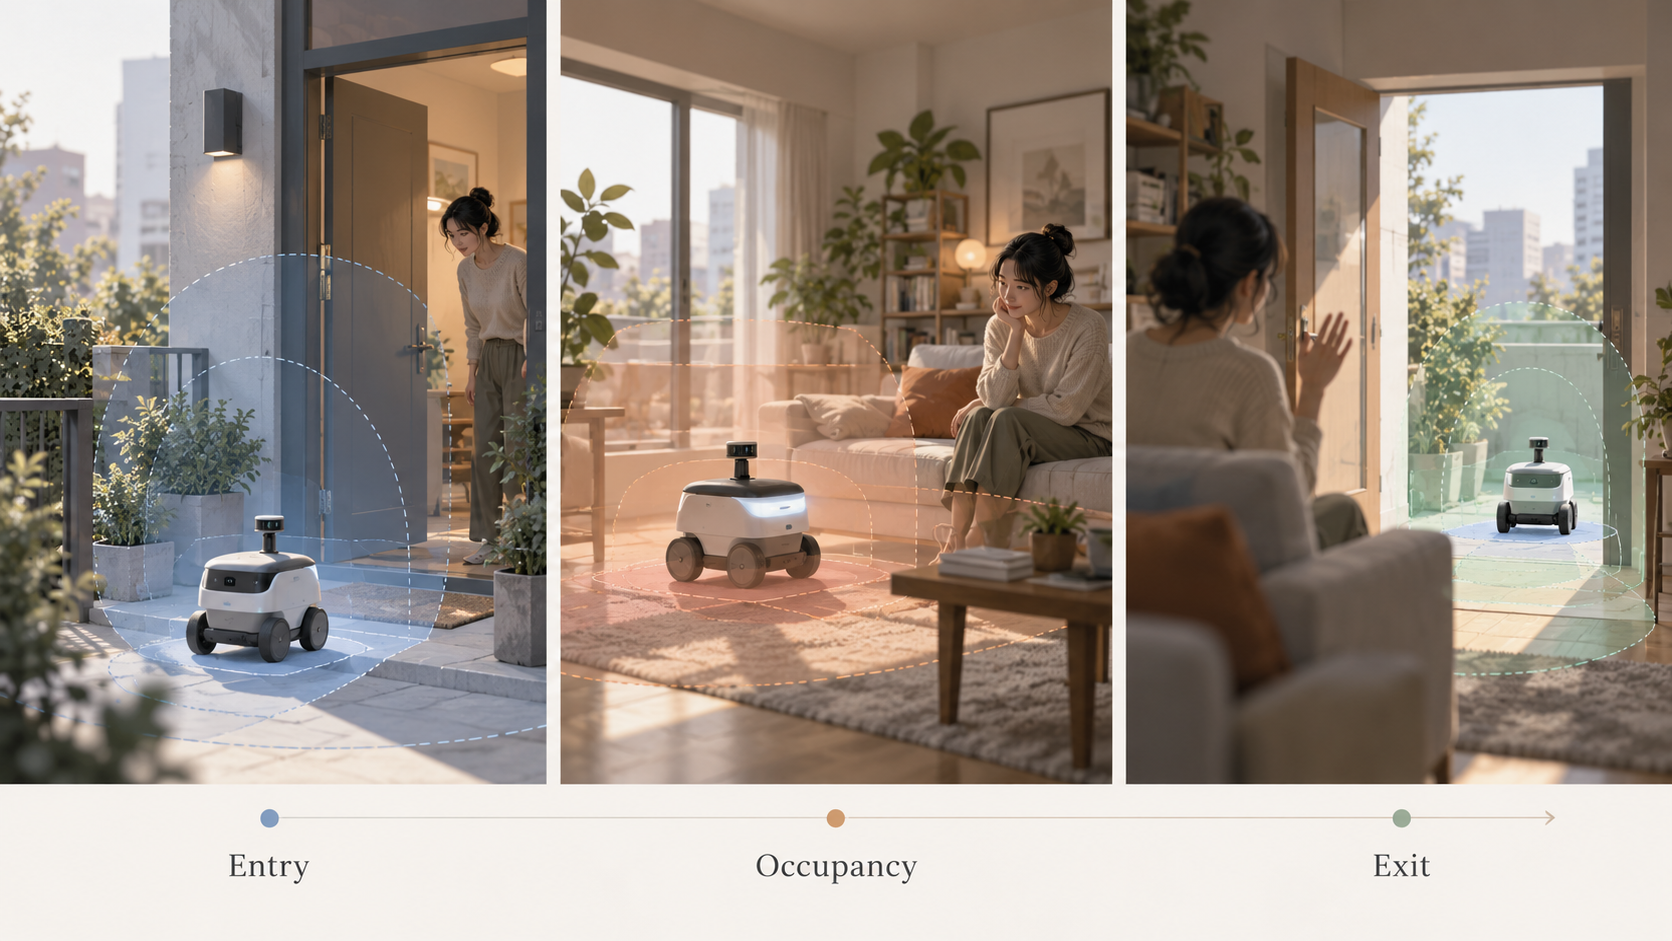
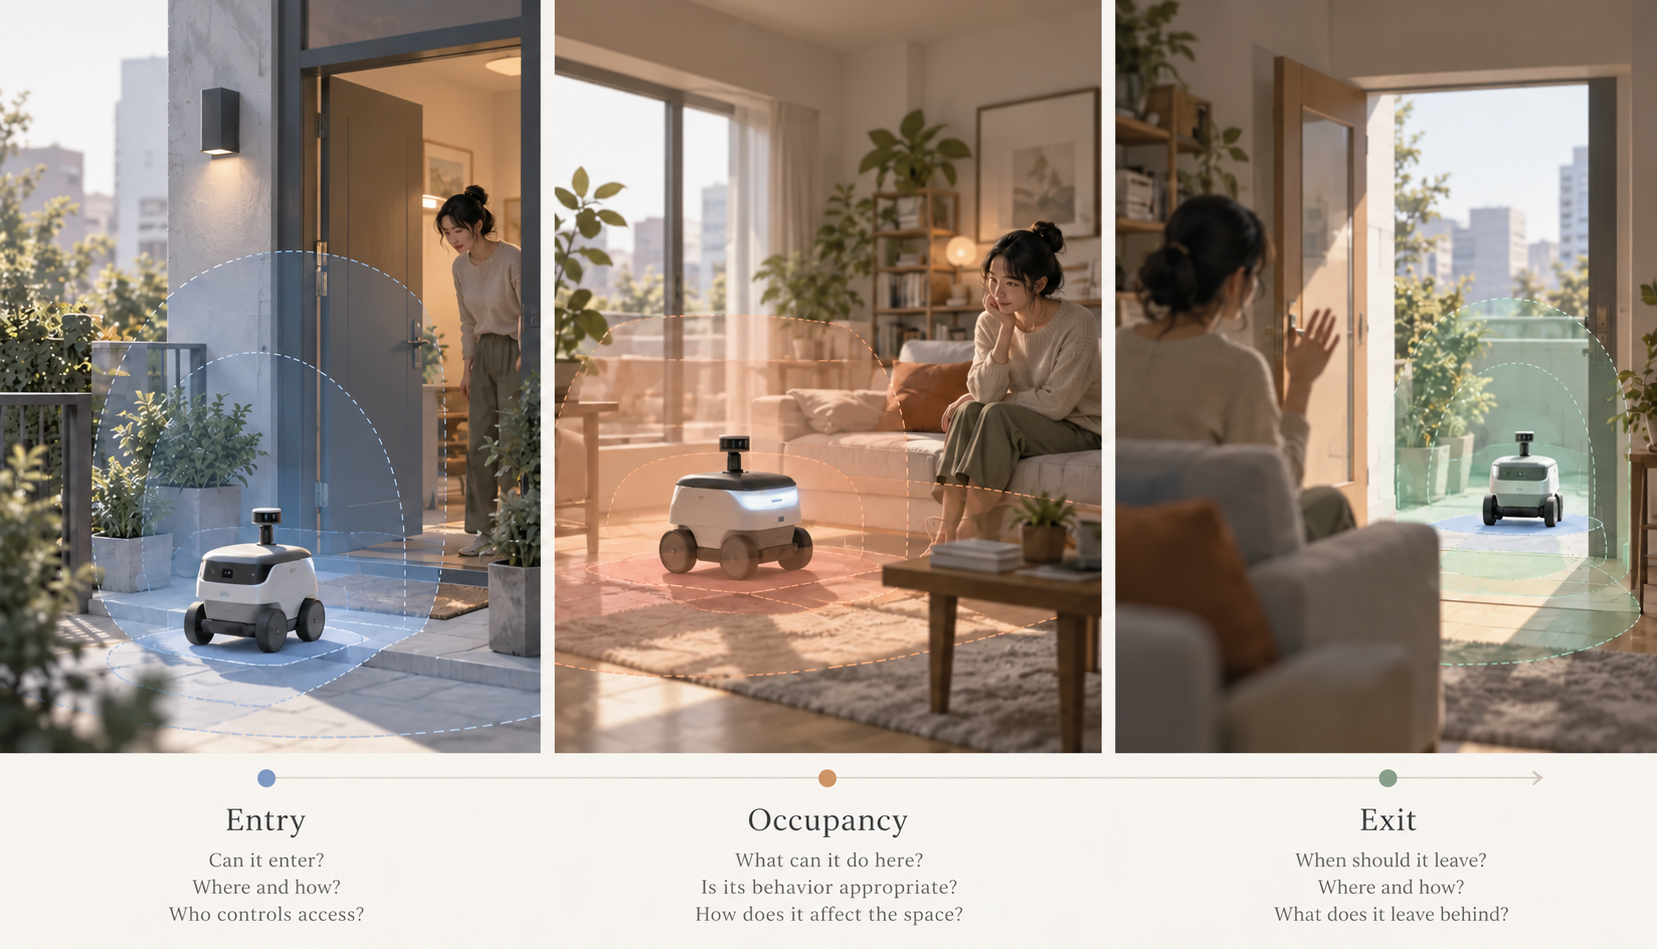
Update Projects

diff --git a/_projects/2_nox.md b/_projects/2_nox.md
@@ -24,23 +24,80 @@ I study how robots enter, occupy, and leave socially meaningful spaces, and what
 
 ## The idea
 
-Robots do not move through empty space. Homes, workplaces, streets, shops, and even the spaces surrounding them are shaped by expectations about **who can enter, what they can do there, and under what conditions**.
+Spaces are not socially neutral.
 
-Human–Robot Interaction has traditionally approached the social use of space through **proxemics**—the distances people maintain around robots. Territoriality complements this perspective by shifting the focus from the distance *between* agents to the spaces people **claim, control, use, and defend**.
+A bedroom, a workplace, a classroom, a garden, or even a temporary gathering each comes with expectations about how that space should be used and experienced. We develop a sense of who belongs there, who may enter, what kinds of actions are appropriate, how long someone may stay, and what qualities of the space should be preserved.
 
-My research asks how these territorial dynamics extend to robots.
+These expectations are not necessarily explicit. Much like proxemic behavior, we often navigate them intuitively as part of everyday life.
 
-## NOX: ENtry, Occupancy, EXit
+What happens when robots begin to enter these spaces?
 
-To make territoriality usable for HRI research and design, we developed **NOX (ENtry, Occupancy, EXit)**, a stage-based model of human–robot territorial dynamics {% cite bretin_nox_2026 %}.
+A robot may be physically capable of crossing a doorway, moving through a room, manipulating an object, or leaving whenever it chooses. But technical possibility does not automatically make these behaviors socially appropriate.
 
-NOX describes territorial interaction through three stages:
+This is where I became interested in **Human–Robot Territoriality**: how people's relationships with spaces shape what they expect from robots entering, occupying, and leaving them.
 
-- **Entry** — how a robot gains access to a space;
-- **Occupancy** — what it does and how its presence changes the space;
-- **Exit** — how and under what conditions it leaves.
+Rather than treating space as an empty environment through which a robot simply navigates, this perspective treats it as a socially meaningful setting—one already associated with people, activities, norms, expectations, and particular ways of being used.
 
-In a vignette study with 290 participants, we found that mismatches between people's expectations and robot behavior were associated with more negative emotions, stronger defensive intentions, and lower perceived appropriateness {% cite bretin_nox_2026 %}.
+## A framework for thinking about territories
+
+Before asking how a robot should behave in a territory, we need a way to describe what makes that space meaningful to the people connected to it.
+
+Our framework {% cite bretin_nox_2026 %} brings together several concepts from territoriality research and adapts them to Human–Robot Interaction:
+
+| Concept | A useful question | What it captures |
+| --- | --- | --- |
+| **Stakeholder** | *Who is meaningfully affected by what happens here?* | An agent with a meaningful connection to the territory—not necessarily the robot's user, or even someone physically present at the time. |
+| **Territorial connection** | *Why does this space matter to them?* | Practical, emotional, social, or legal ties to a space, such as living, working, owning, identifying with, or relying on it. |
+| **Territorial model** | *How do they expect this space to work?* | Expectations about who may access it, what may happen there, how it should be used, and what qualities it should maintain. |
+| **Territorial status** | *How can they actually experience and act within the space?* | Their current position in the territorial dynamic, including authority, freedom of access and action, self-expression, and the experienced qualities of the environment. |
+| **Territorial congruence** | *Do expectations and experience align?* | The degree to which what happens in the space corresponds to what stakeholders expect. |
+| **Territorial behavior** | *How are these relationships expressed?* | Ways of expressing, negotiating, maintaining, or responding to territorial relationships—from personalization and rule-setting to reactions when expectations are not met. |
+
+Together, these concepts describe the territorial setting in which an interaction takes place.
+
+**NOX adds the temporal dimension:** what happens when a robot approaches a territory, enters it, acts or remains within it, and eventually leaves?
+
+## NOX: Entry, Occupancy, Exit
+
+To make these dynamics actionable for HRI research and design, we developed **NOX (ENtry, Occupancy, EXit)**, a stage-based model of how robots engage with human territories over time {% cite bretin_nox_2026 %}.
+
+The model follows three broad phases:
+
+- **Entry** — how a robot approaches and gains access to a territory;
+- **Occupancy** — what it does, where it moves, and how its presence affects the space;
+- **Exit** — when and how it leaves, and what remains after it has gone.
+
+Across these phases, NOX identifies places where robot behavior and stakeholder expectations can diverge. We call these **friction points**.
+
+Importantly, NOX does not prescribe one universally correct behavior—for example, that a robot must always ask for permission before entering. What matters is whether the behavior enacted by the robot is congruent with what relevant stakeholders expect in that particular territorial context.
+
+<div style="width: 95%; margin: 2rem auto;">
+
+{% include figure.liquid
+  path="assets/img/projects/territoriality/modelTer.png"
+  title="NOX model of Human–Robot Territorial Dynamics"
+  class="img-fluid rounded z-depth-1"
+%}
+
+</div>
+
+<p class="caption">
+  The NOX framework connects robot operations across Entry, Occupancy, and Exit
+  with the territorial expectations through which stakeholders experience a space.
+</p>
+
+At each phase, these potential mismatches can concern three broad dimensions:
+
+- **Freedom** — the degree of access, exit, or action the robot is expected to have;
+- **Action** — whether what the robot physically does, including where and how it acts, fits the expectations associated with the space;
+- **Status** — how the robot's behavior or presence changes stakeholders' actual experience of the territory, such as their authority, freedom of action, self-expression, or the qualities of the space.
+
+Importantly, NOX does not prescribe one universally correct behavior. A robot does not, for example, always need to ask permission before entering. What matters is whether its behavior is congruent with what relevant stakeholders expect in that particular territorial context.
+
+We evaluated this idea in a vignette study with **290 participants**, using a domestic primary territory as a first test case {% cite bretin_nox_2026 %}. Across Entry, Occupancy, and Exit, mismatches between expected and observed robot behavior were associated with more negative emotional responses, stronger defensive intentions, and lower perceived appropriateness.
+
+The key point is therefore not that one specific behavior is always appropriate, but that **territorial expectations matter**, and that robot behavior can become problematic when it conflicts with them.
+
 
 ## Beyond physical boundaries
 
@@ -60,6 +117,12 @@ Understanding territorial expectations can help us move from asking only **"Can 
 
 ## Where is this going?
 
-This work is developing along two complementary directions. Empirically, I aim to study territoriality across a wider range of robots, environments, stakeholders, and cultures, using these observations to iteratively refine the theory and the NOX model.
+A first goal is to strengthen the empirical foundations of Human–Robot Territoriality. Territorial expectations are often implicit, context-dependent, and shaped over time, so I am interested in developing better ways to observe and measure them in real-world and longitudinal interactions.
 
-In parallel, I want to bridge theory and autonomy by translating territorial principles into **behavioral control algorithms** that enable robots to recognize, negotiate, and adapt to human territorial expectations in real time.
+I also want to turn the framework into practical tools for design. One direction is to develop **territorial audits** that help researchers and designers identify relevant stakeholders, expectations, and potential friction points before deployment—and diagnose breakdowns once a robot is in use.
+
+In the longer term, the goal is to move from analyzing territorial interactions after the fact toward **territorially aware robots**. This means identifying the cues that could allow a robot to infer what kind of space it is entering, whose expectations matter, when those expectations are changing, and how it should adapt, negotiate, or recover when something goes wrong.
+
+Ultimately, I see territoriality not only as a way to explain human–robot spatial interaction, but as a basis for designing robots that can participate more appropriately in socially meaningful spaces.
+
+Territoriality complements my work on <a href="/_projects/1_project.md">Human–Drone Proxemics</a> by adding another facet of the social use of space. More broadly, it also connects to my work on Ecological Robotics, which explores how robots can be designed around the environments—or ecosystems—they are meant to become part of.

diff --git a/_projects/1_project.md b/_projects/1_project.md
@@ -8,16 +8,6 @@ category: work
 related_publications: true
 ---
 
-{% include figure.liquid
-  path="assets/img/projects/proxemics.png"
-  title="Human–Drone Proxemics"
-  class="img-fluid rounded z-depth-1"
-%}
-
-<p class="caption">
-  Four mechanisms shaping human–drone proxemic behavior.
-</p>
-
 ## In one sentence
 
 I study why people move closer to or farther away from drones, and the psychological mechanisms that shape these spatial relationships.
@@ -35,6 +25,17 @@ This led me to ask: **what shapes the distances people maintain around drones?**
 This question formed the core of my PhD research on **Human–Drone Proxemics**. Rather than asking only *how far* people want to stay from drones, I became interested in **what drives these spatial adjustments in the first place**.
 
 This motivated a series of studies examining different mechanisms that can shape people's spatial relationships with drones: communicating social meaning, responding to potential threats, pursuing a task, and regulating stimulation. Together, these studies progressively revealed a more complex picture of how spatial behavior emerges {% cite bretin_beyond_2025%}.
+
+{% include figure.liquid
+  path="assets/img/projects/proxemics.png"
+  title="Human–Drone Proxemics"
+  class="img-fluid rounded z-depth-1"
+%}
+
+<p class="caption">
+  Four mechanisms shaping human–drone proxemic behavior.
+</p>
+
 
 ## What shapes our distance from drones?
 
@@ -59,7 +60,7 @@ Across a series of empirical studies, I investigated four complementary mechanis
           interpretations and behavior.
         </p>
         <p class="card-text">
-          {% cite bretin_role_2025 %}
+          {% cite bretin_role_2025 bretin_co-existing_2024%}
         </p>
       </div>
     </div>
@@ -123,11 +124,15 @@ An important part of this model is that proxemic behavior does not begin with di
 
 A drone produces visual, auditory, and other sensory cues that are filtered through the environment, the situation, and the individual's own characteristics. Only some of this information becomes sufficiently relevant to influence higher-level interpretation and behavior.
 
+<div style="width: 80%; margin: 0 auto;">
+
 {% include figure.liquid
   path="assets/img/projects/cog.png"
   title="Sensory processing in Human–Drone Proxemics"
   class="img-fluid rounded z-depth-1"
 %}
+
+</div>
 
 <p class="caption">
   A closer look at the sensory-processing component of the model, showing how drone outputs are filtered before contributing to higher-level interpretation.
@@ -145,11 +150,15 @@ This led me to reverse the usual way of thinking about proxemics. Rather than st
 
 My PhD brought these mechanisms and their interactions together into a holistic model of **Human–Drone Proxemics**.
 
-{% include figure.liquid
-  path="assets/img/projects/proxmodel.png"
-  title="Holistic model of Human–Drone Proxemics"
-  class="img-fluid rounded z-depth-1"
-%}
+<div style="width: 80%; margin: 0 auto;">
+
+  {% include figure.liquid
+    path="assets/img/projects/proxmodel.svg"
+    title="Holistic model of Human–Drone Proxemics"
+    class="img-fluid rounded z-depth-1"
+  %}
+
+</div>
 
 <p class="caption">
   A holistic model of Human–Drone Proxemics, from sensory processing and situational assessment to competing proxemic motivations and behavioral responses.
